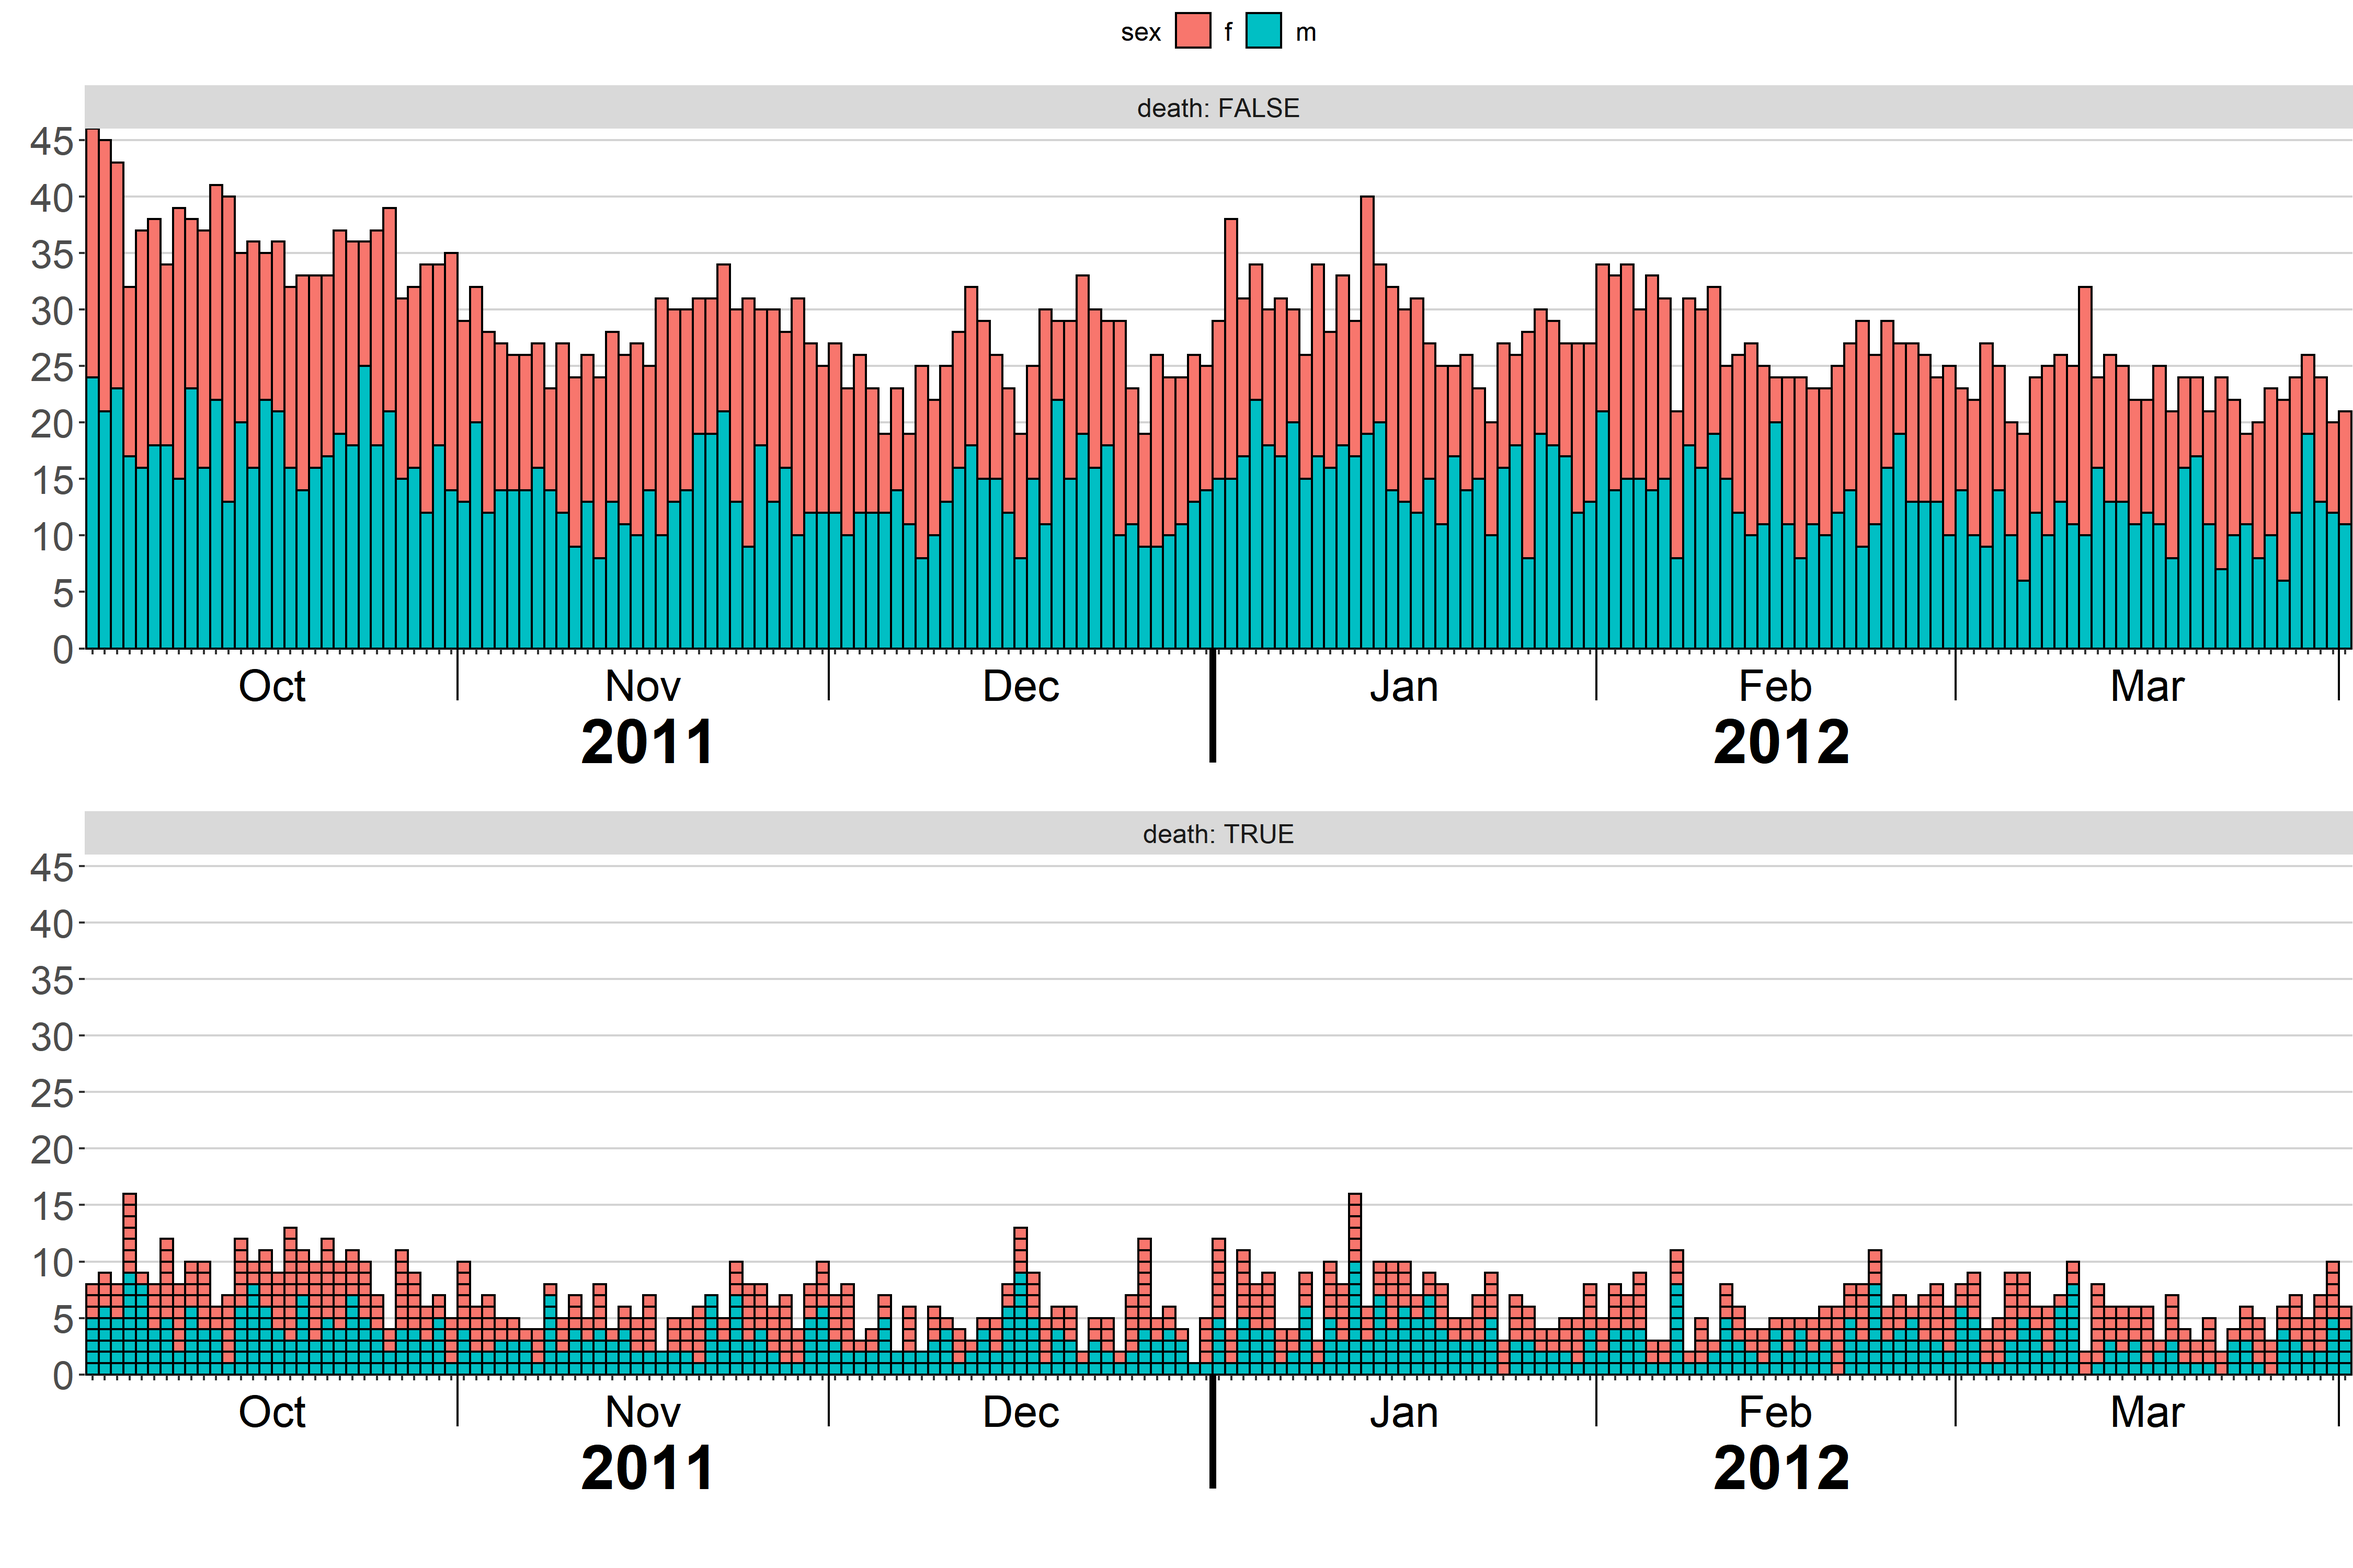
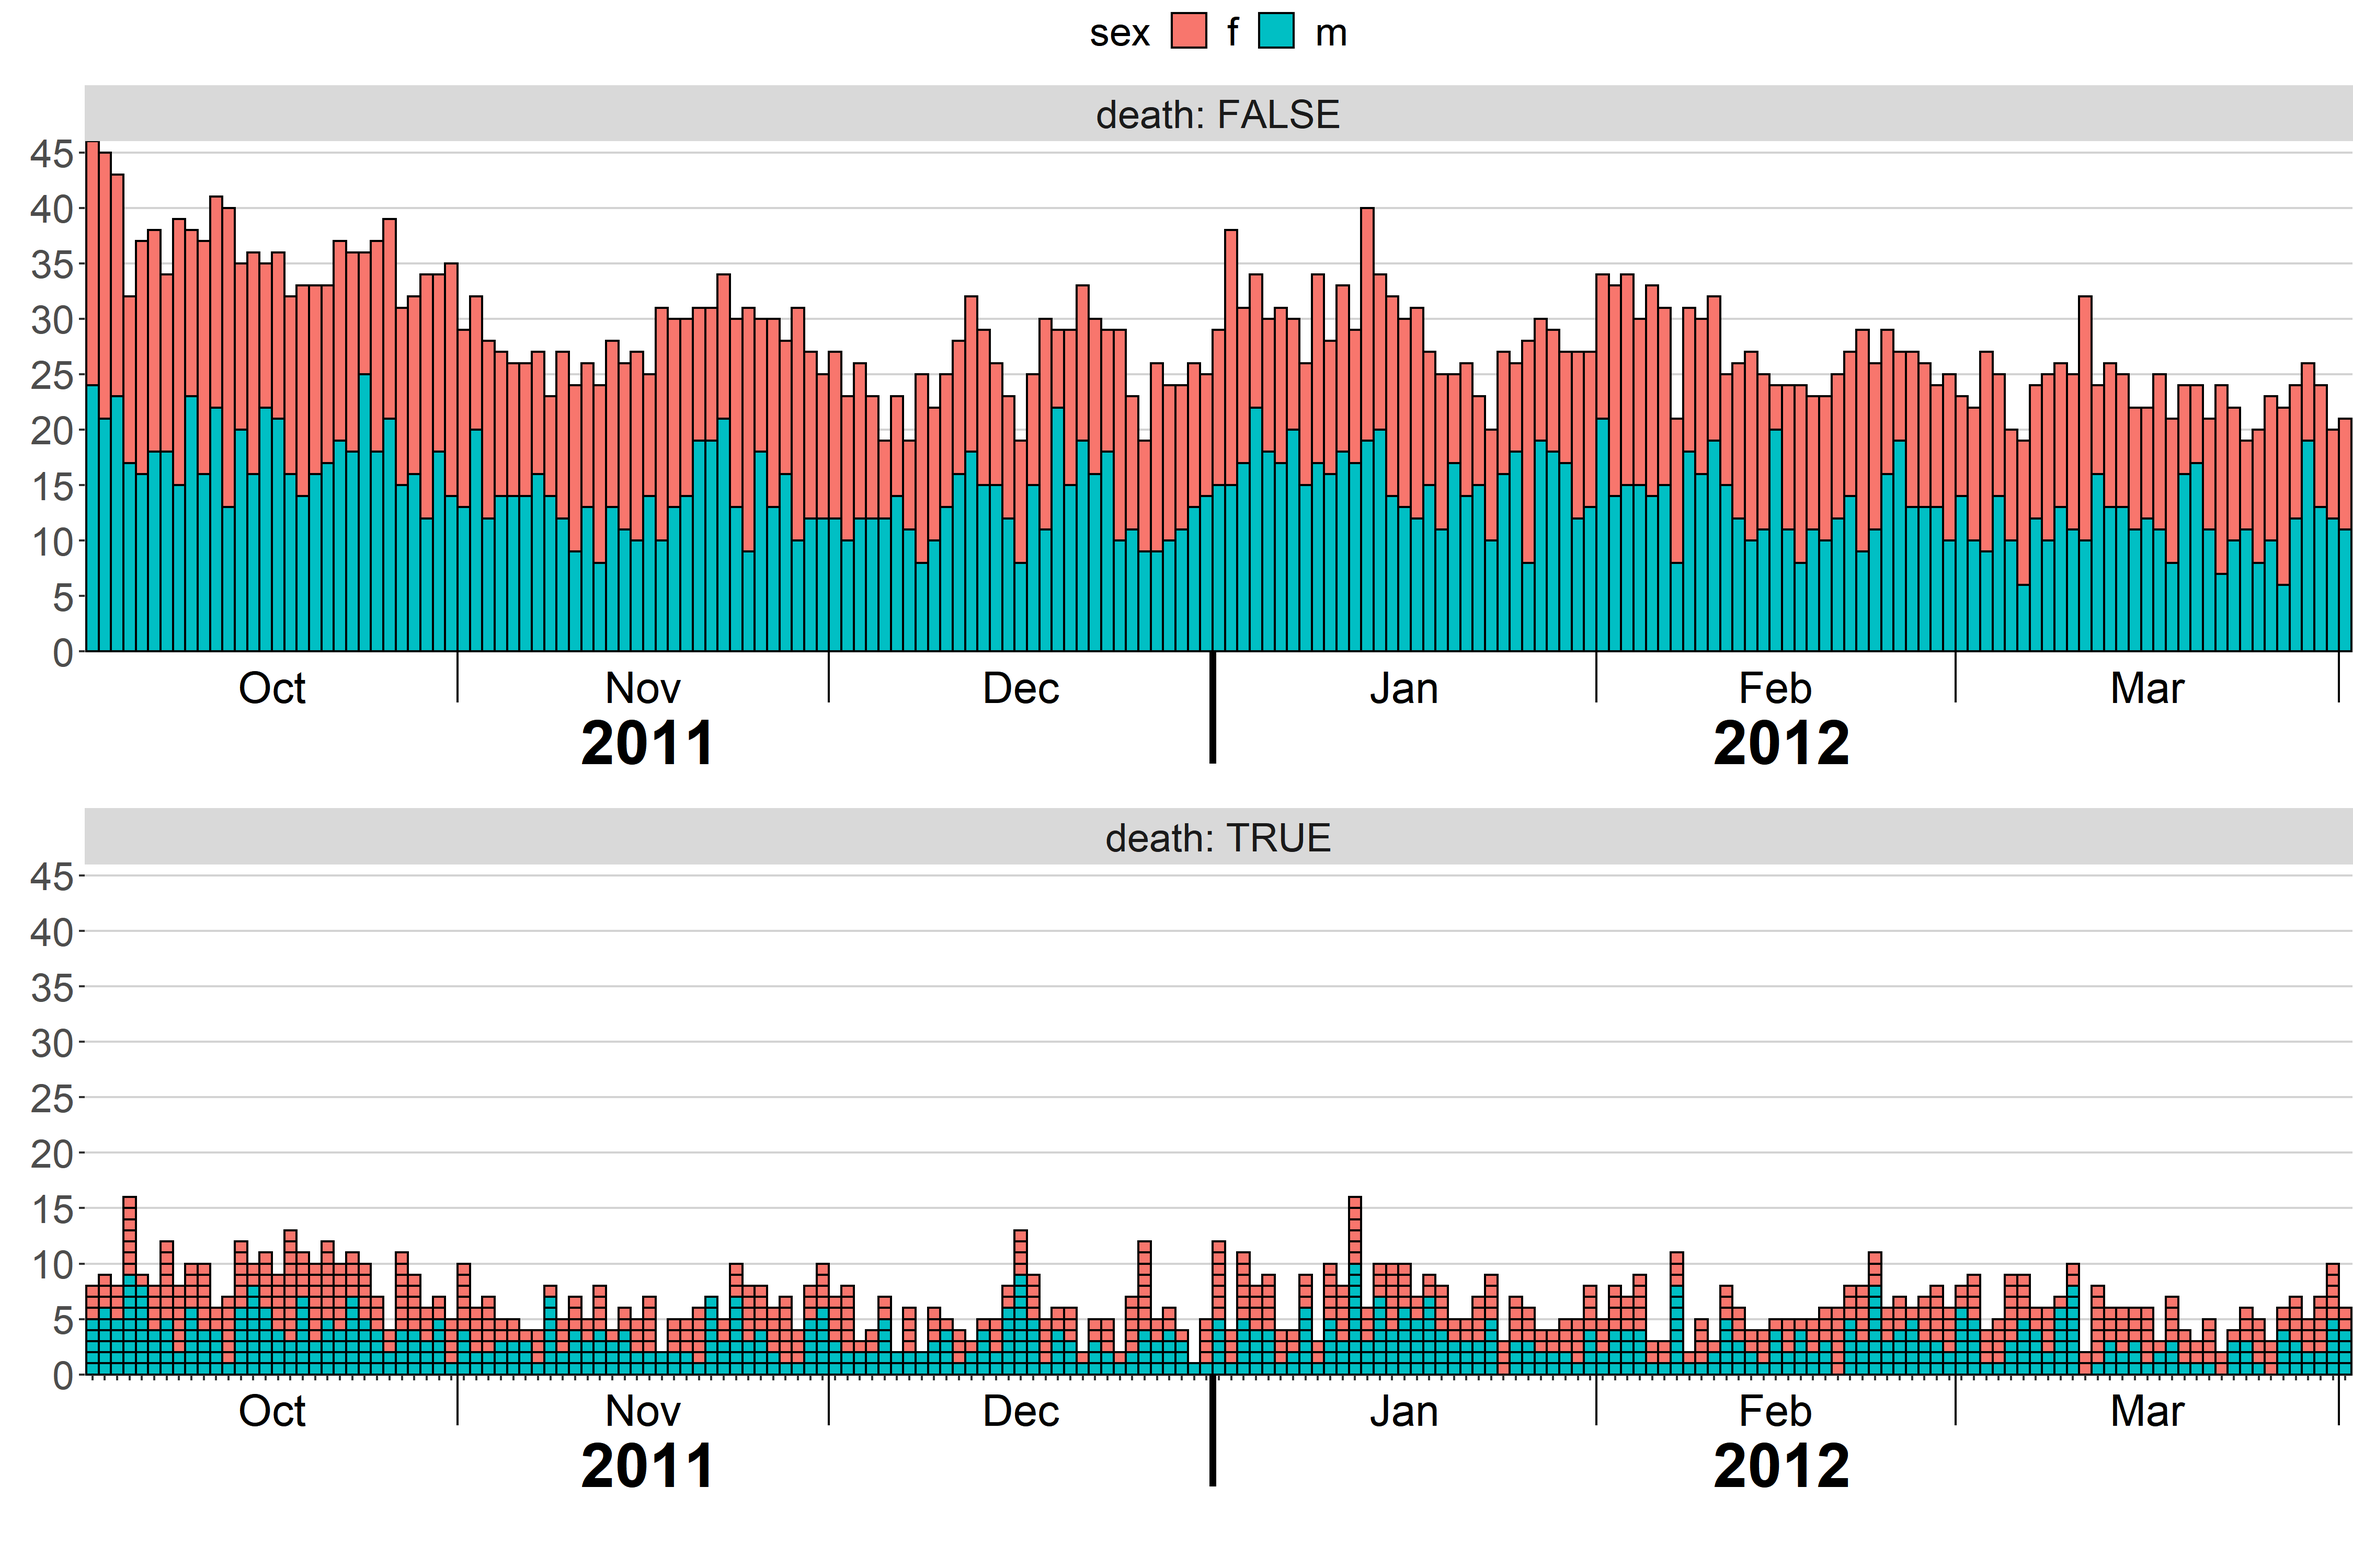
better readme

diff --git a/README.md b/README.md
@@ -11,6 +11,8 @@ devtools::install_github("martin-borkovec/ggepicurve",
                          build_vignettes = TRUE)
 ```
 
+## Tutorial
+
 Make sure to checkout the vignette.
 
 ``` r
@@ -30,28 +32,33 @@ library(ggepicurve)
 dat <- ggepicurve::sim_data
 dat <- dat[dat$date <= as.Date("2012-04-01") & dat$date > as.Date("2011-10-01"),]
 
+# initialize plot
 ggepicurve(data = dat,
-           mapping = aes(fill = sex),
+           mapping = aes(fill = sex), # set mapping of geom col
            date = "date", 
-           epi_blocks = 25
-          ) +
-  theme(axis.text.x = element_blank(),
-        axis.text.y = element_text(size = 18)) +
-  annotation_date(date_unit = "month",
+           epi_blocks = 25) + # draw each case as a block if max daily cases of panel are under 25
+  # add annotations for months
+  annotation_date(date_unit = "month", 
                   format = "%b",
                   y_percentage = 0.1,
-                  text_par = list(size = 7)
-                  ) +
+                  text_par = list(size = 7)) +
+   # add annotations for years
   annotation_date(date_unit = "year",
                   format = "%Y",
                   y_percentage = 0.22,
                   extra_lines = 5,
                   text_par = list(fontface = "bold", size = 10),
-                  line_par = list(size = 1.5)
-                  ) +
-  facet_wrap(facets = "death", scales = "free_x", nrow = 2, labeller = label_both) +
-  theme(strip.text = element_text(size = 12),
-        legend.text = element_text(size = 12))
+                  line_par = list(size = 1.5)) +
+  # facet plot by death status
+  facet_wrap(facets = "death",
+             nrow = 2,
+             labeller = label_both) + 
+  # adjust some theme elements
+  theme(axis.text.x = element_blank(), 
+        axis.text.y = element_text(size = 18),
+        strip.text = element_text(size = 18),
+        legend.title = element_text(size = 18),
+        legend.text = element_text(size = 18))
 ```
 
 ![](man/figures/README-unnamed-chunk-3-1.png)<!-- -->
